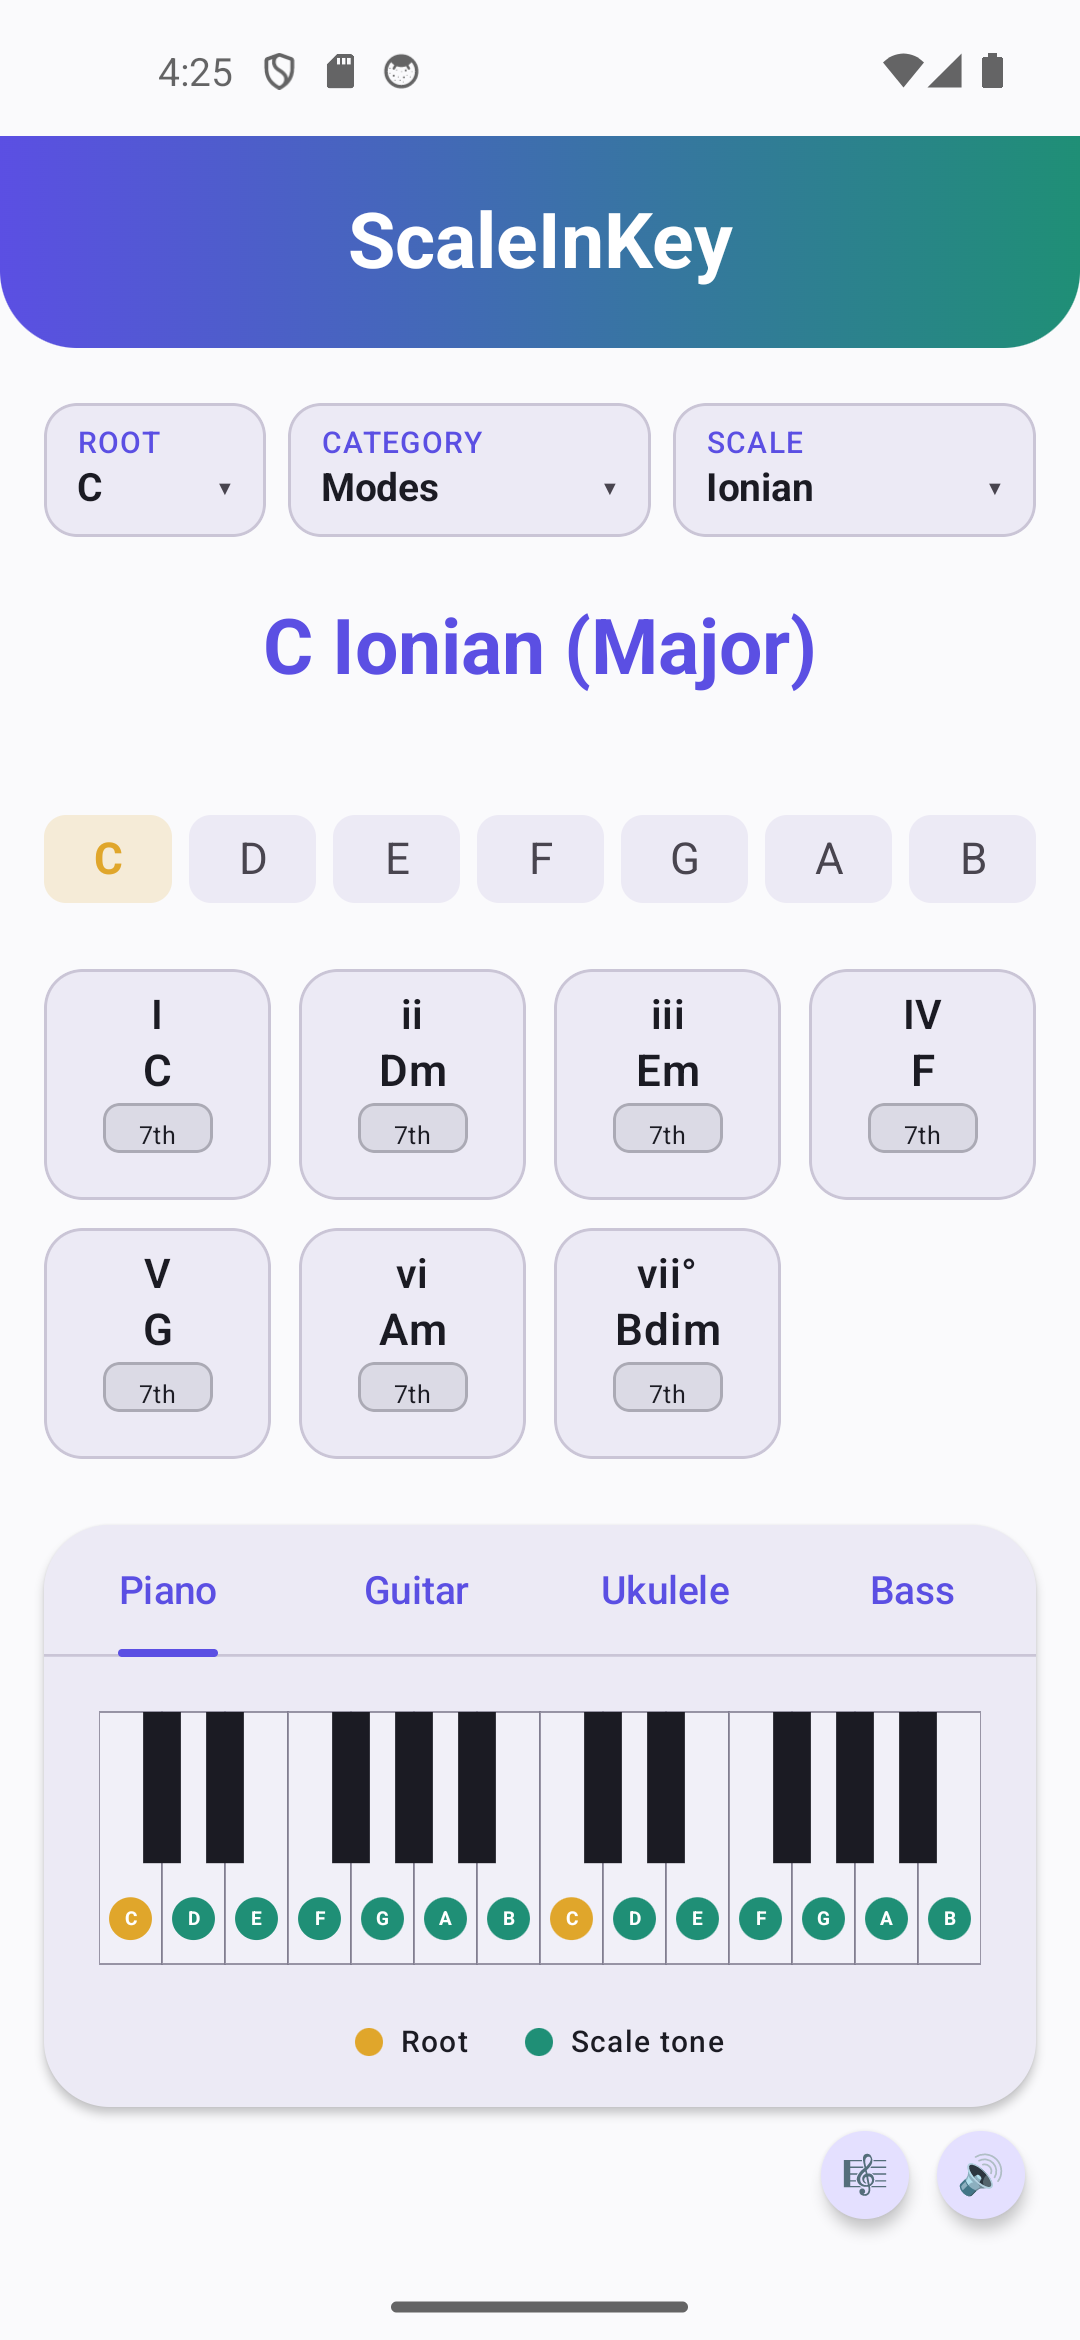
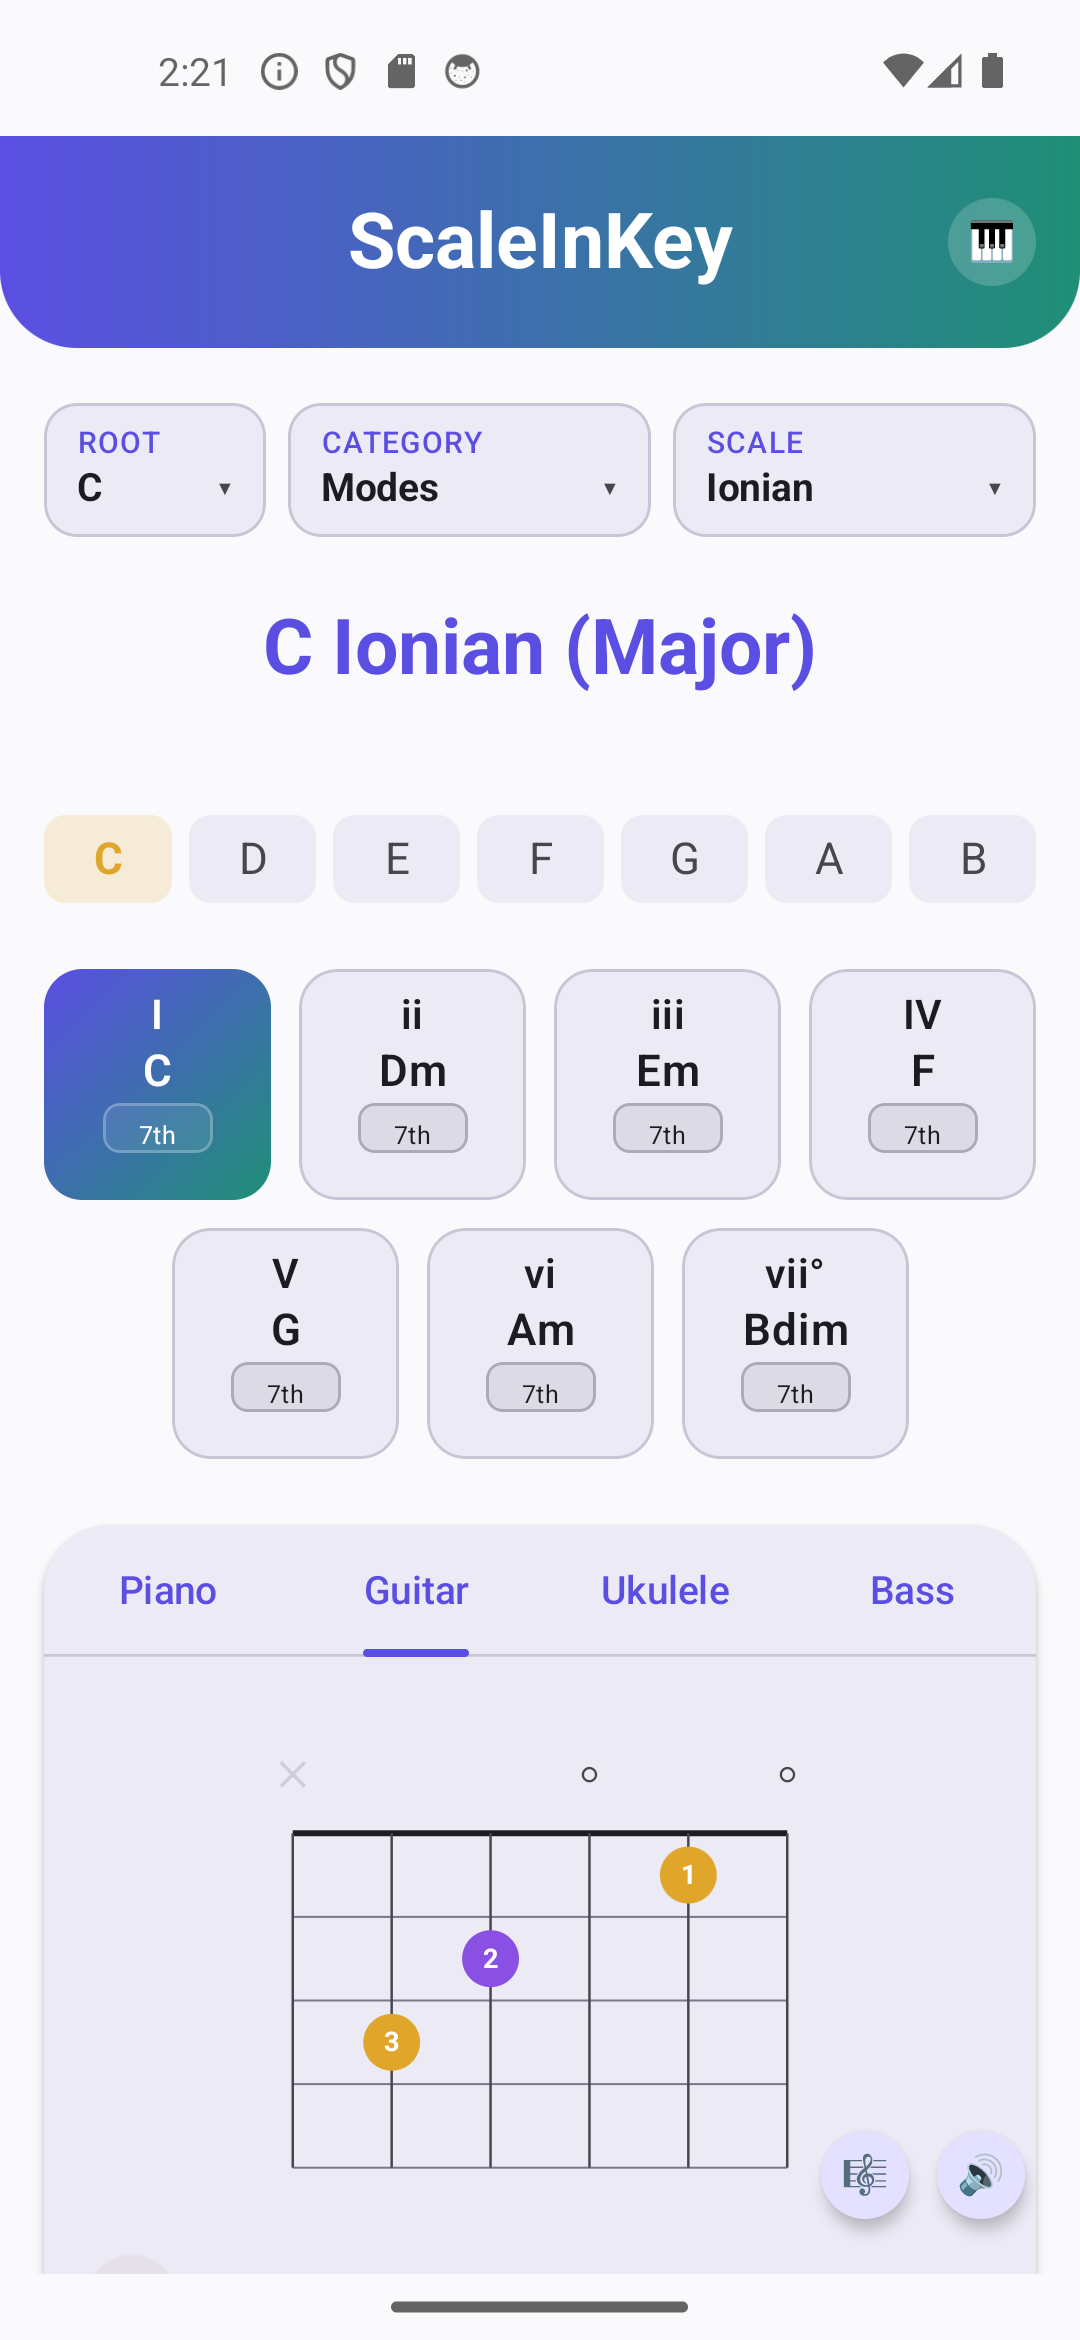
Update README for the sequencer and fingering-chart polish, refresh screenshot
Add a Features bullet for the chord progression sequencer (new since
v1.0.1) and mention the tap-flash feedback. Replace the main
screenshot with a current one showing Guitar's fingering-chart mode
for a selected chord, reflecting this session's fixes (correct string
order/fingering, consistent sizing, centering) rather than the
unchanged Piano view.

Claude-Session: https://claude.ai/code/session_01KqGUcsvsHqyUZuZwA3SEJB

diff --git a/README.md b/README.md
@@ -2,7 +2,7 @@
 
 This is an Android (14 or higher) app to show you the notes and chords in a given mode or scale. The app store is full of paid or ad-filled apps that do this (and more! or less!) so I decided to test claude out and release something for free. Cheers.
 
-<img src="docs/screenshot-main.png" alt="ScaleInKey main screen: C Ionian scale with diatonic chords and the piano diagram" width="360" />
+<img src="docs/screenshot-main.png" alt="ScaleInKey main screen: C Ionian scale with diatonic chords and the Guitar fingering-chart diagram for the I chord" width="360" />
 
 ## Features
 
@@ -23,7 +23,12 @@ This is an Android (14 or higher) app to show you the notes and chords in a give
   played as strummed chords.
 - **Tap-to-hear playback** of any note, chord, or fretboard/chord-chart position, via a real SF2
   synth (not a beeper) — bundled with a small default soundfont, with the option to load your own
-  `.sf2` file.
+  `.sf2` file. Every tap flashes a distinct highlight color so it's clear exactly what you hit.
+- **Chord progression sequencer** — a separate screen (switch to it via the 🎹 icon next to the
+  title) for building an ordered sequence of the current scale's diatonic chords and playing it
+  back at a settable tempo: a BPM stepper (default 120), beats-per-chord, a loop toggle, tap to
+  append a chord from the palette (long-press to toggle its triad/7th voicing first), and
+  drag-to-reorder or tap-to-remove on chords already queued.
 
 ## Requirements
 
